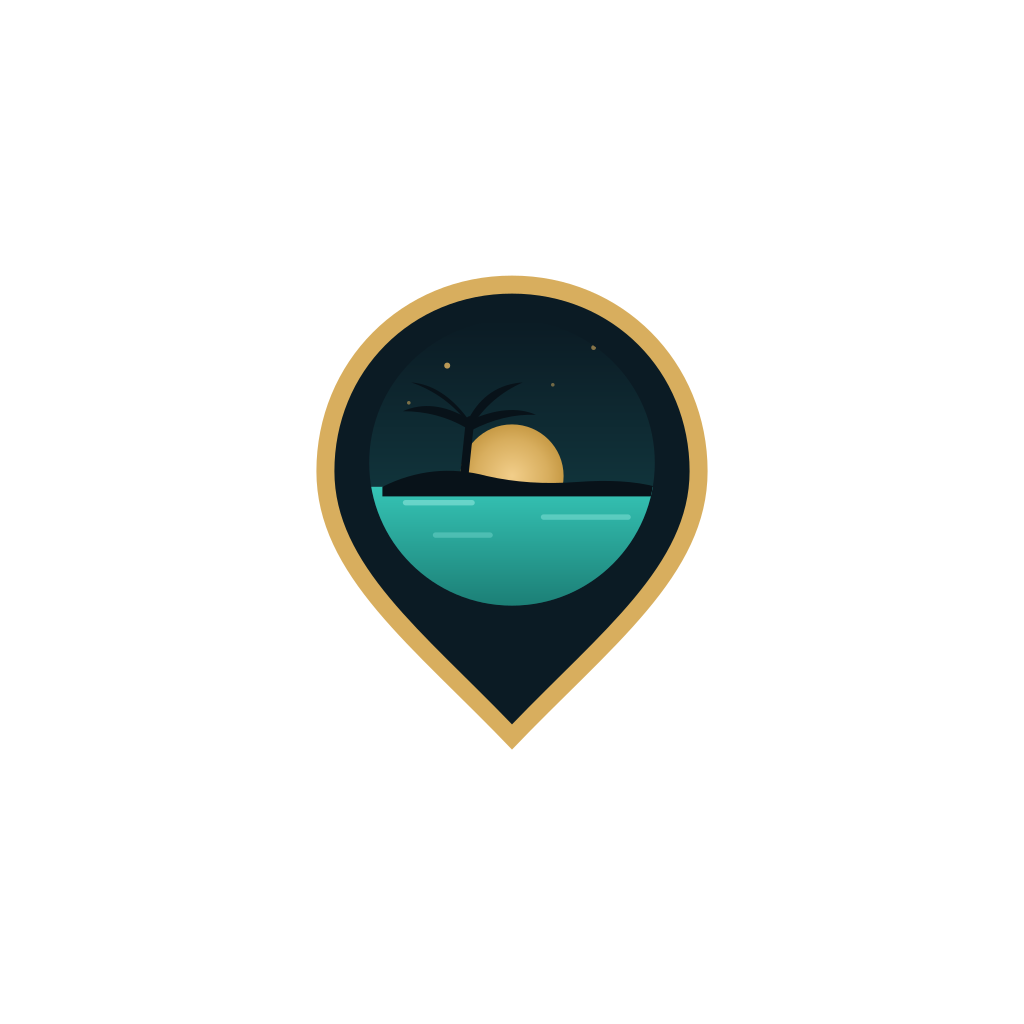
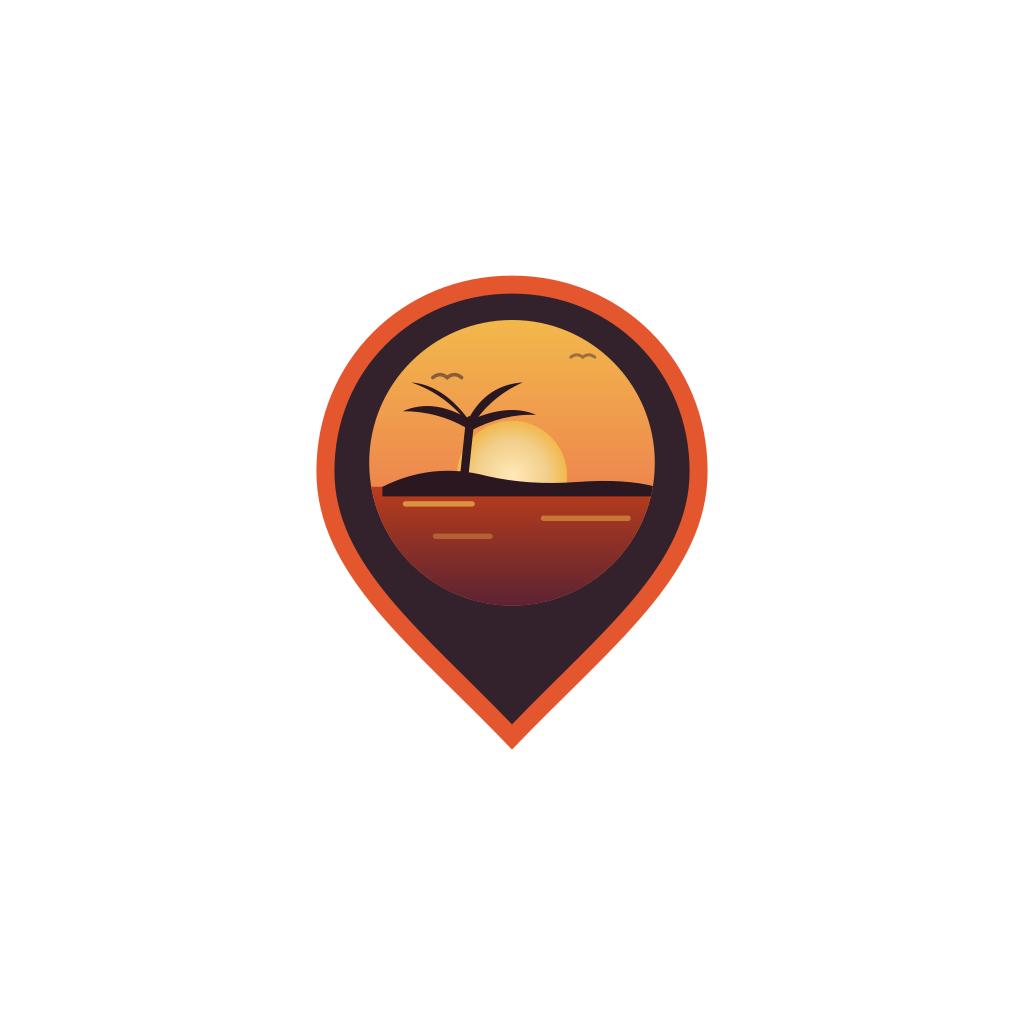
zanziGo : design « Coucher de soleil » (option B) — choix final
- Palette corail couchant / crème dorée / prune / doré appliquée au système
  de design central, aux composants UI, aux barres et aux pages web du
  serveur (/, /app, PayPal).
- Logo « pin de l'île » version coucher de soleil : pin corail, ciel du soir
  doré, soleil d'or, mer prune — icône iOS/Android, splash, favicon, accueil.
- Barre d'état repassée en icônes sombres (fond clair).

Claude-Session: https://claude.ai/code/session_01Dbj7RjdMvYdZ7ALANEqkT4

Changed region(s): [[0.2812, 0.25, 0.7188, 0.7188]]

diff --git a/mobile/src/lib/theme.ts b/mobile/src/lib/theme.ts
@@ -1,39 +1,39 @@
-// Palette « Nuit d'océan » de zanziGo : marine profonde, turquoise néon, or.
-// (Direction D choisie par l'équipe — l'océan de nuit, esprit beach club.)
+// Palette « Coucher de soleil » de zanziGo : corail chaud, crème dorée, prune.
+// (Direction B choisie par l'équipe — le ciel de Zanzibar à 18 h 30.)
 import type { StatutColis, StatutTrajet } from './types';
 
 export const couleurs = {
-  primaire: '#35C4B5', // turquoise néon
-  primaireFonce: '#7FE0D5', // texte turquoise clair posé sur les fonds teal sombres
-  primaireClair: '#123A41', // fond teal profond (pastilles, encarts info)
-  sable: '#10222E', // fond principal — marine profonde (nom historique conservé)
+  primaire: '#E4572E', // corail couchant
+  primaireFonce: '#B93C1B', // corail profond (textes sur fonds rosés)
+  primaireClair: '#FFE0D2', // rosé (pastilles, encarts info)
+  sable: '#FBF0E4', // fond principal — crème dorée (nom historique conservé)
   blanc: '#FFFFFF',
-  encre: '#EAF2F4', // texte principal — écume
-  texteSecondaire: '#8FA6B0',
-  bordure: '#29455A',
-  danger: '#E5484D',
-  dangerFonce: '#FCA5A5', // texte des encarts d'erreur
-  dangerFond: '#3B1A1E', // fond rouge sombre (bandeaux d'erreur)
-  dangerBordure: '#7F2E35',
-  succes: '#58D6A8',
-  succesFond: '#14383B',
-  attente: '#E4B95B',
-  attenteFond: '#3E3320',
-  orange: '#F0A24A', // orange doux (statut « Chauffeur confirmé »)
-  orangeFond: '#3D2C18',
-  etoile: '#E4B95B', // étoiles de notation — or
-  voile: 'rgba(4, 10, 15, 0.7)', // voile sombre du scanner
+  encre: '#33222B', // texte principal — prune
+  texteSecondaire: '#8A7168',
+  bordure: '#F0DFD2',
+  danger: '#DC2626',
+  dangerFonce: '#B91C1C', // texte des encarts d'erreur
+  dangerFond: '#FEF2F2', // fond rouge très clair (bandeaux d'erreur)
+  dangerBordure: '#FECACA',
+  succes: '#5A7D2A',
+  succesFond: '#E5EFD8',
+  attente: '#B77A12',
+  attenteFond: '#FCE9C4',
+  orange: '#EA580C', // orange franc (statut « Chauffeur confirmé »)
+  orangeFond: '#FFEDD5',
+  etoile: '#F2B84B', // étoiles de notation — doré
+  voile: 'rgba(30, 15, 22, 0.68)', // voile sombre du scanner (prune translucide)
   succesClair: '#6EE7B7', // texte succès sur fond sombre (scanner)
   dangerClair: '#FCA5A5', // texte erreur sur fond sombre (scanner)
-  // Photos de plage en fond, voilées de marine pour la lisibilité nocturne.
-  voilePhotoClair: 'rgba(16, 34, 46, 0.88)', // voile marine sur les écrans formulaires/listes
-  voilePhotoSombre: 'rgba(4, 10, 15, 0.55)', // assombrissement bas des écrans d'accueil
-  carteTranslucide: 'rgba(26, 50, 66, 0.95)', // cartes marine claire semi-opaques
-  // Rôles propres à « Nuit d'océan »
-  surface: '#1A3242', // surfaces pleines : champs de saisie, menus, barre d'onglets
-  surPrimaire: '#0B1B24', // texte/icônes posés SUR le turquoise (boutons)
-  or: '#D8AE5E', // accent or : logo, touches premium
-  nuit: '#0B1B24', // fonds les plus profonds (carte Chauffeur de l'accueil)
+  // Photos de plage en fond, voilées de crème chaude pour la lisibilité.
+  voilePhotoClair: 'rgba(255, 247, 238, 0.86)', // voile crème sur les écrans formulaires/listes
+  voilePhotoSombre: 'rgba(30, 15, 22, 0.55)', // assombrissement bas des écrans d'accueil
+  carteTranslucide: 'rgba(255, 253, 250, 0.94)', // cartes blanc chaud semi-opaques
+  // Rôles introduits avec les directions B/D
+  surface: '#FFFDFA', // surfaces pleines : champs de saisie, menus, barre d'onglets
+  surPrimaire: '#FFF8F2', // texte/icônes posés SUR le corail (boutons)
+  or: '#F2B84B', // accent doré : étoiles, touches premium
+  nuit: '#33222B', // fonds les plus profonds (carte Chauffeur de l'accueil)
 };
 
 export const rayons = {
@@ -61,15 +61,15 @@ export const tailles = {
 /** Ombres douces réutilisables (iOS + elevation Android). */
 export const ombres = {
   carte: {
-    shadowColor: '#000',
-    shadowOpacity: 0.3,
-    shadowRadius: 8,
-    shadowOffset: { width: 0, height: 3 },
-    elevation: 3,
+    shadowColor: '#5C3A2E',
+    shadowOpacity: 0.08,
+    shadowRadius: 6,
+    shadowOffset: { width: 0, height: 2 },
+    elevation: 2,
   },
   douce: {
-    shadowColor: '#35C4B5',
-    shadowOpacity: 0.18,
+    shadowColor: '#E4572E',
+    shadowOpacity: 0.14,
     shadowRadius: 14,
     shadowOffset: { width: 0, height: 6 },
     elevation: 4,

diff --git a/backend/src/app.js b/backend/src/app.js
@@ -62,9 +62,9 @@ export function createApp() {
         `<!doctype html><html lang="fr"><head><meta charset="utf-8">
 <meta name="viewport" content="width=device-width, initial-scale=1">
 <title>zanziGo — API</title>
-<style>body{font-family:system-ui,sans-serif;background:#10222E;color:#EAF2F4;display:flex;min-height:100vh;align-items:center;justify-content:center;margin:0}
-main{text-align:center;padding:32px}h1{color:#D8AE5E;font-size:44px;margin:0}
-p{color:#8FA6B0;max-width:42ch}code{background:#123A41;color:#7FE0D5;padding:2px 8px;border-radius:8px}</style>
+<style>body{font-family:system-ui,sans-serif;background:#FBF0E4;color:#33222B;display:flex;min-height:100vh;align-items:center;justify-content:center;margin:0}
+main{text-align:center;padding:32px}h1{color:#E4572E;font-size:44px;margin:0}
+p{color:#8A7168;max-width:42ch}code{background:#FFE0D2;color:#B93C1B;padding:2px 8px;border-radius:8px}</style>
 </head><body><main><h1>zanziGo</h1>
 <p><strong>Le serveur est en ligne ✓</strong></p>
 <p>Cette adresse est le moteur de l'application mobile zanziGo (courses taxi et colis à Zanzibar). Il n'y a rien à voir ici : tout se passe dans l'app.</p>
@@ -85,12 +85,12 @@ p{color:#8FA6B0;max-width:42ch}code{background:#123A41;color:#7FE0D5;padding:2px
         `<!doctype html><html lang="fr"><head><meta charset="utf-8">
 <meta name="viewport" content="width=device-width, initial-scale=1">
 <title>zanziGo — Ouvrir l'app</title>
-<style>body{font-family:system-ui,sans-serif;background:#10222E;color:#EAF2F4;display:flex;min-height:100vh;align-items:center;justify-content:center;margin:0}
-main{text-align:center;padding:28px;max-width:480px}h1{color:#D8AE5E;font-size:40px;margin:0 0 4px}
-p{color:#8FA6B0;margin:10px auto;line-height:1.5}
-.bouton{display:block;background:#35C4B5;color:#0B1B24;text-decoration:none;font-weight:700;font-size:18px;padding:16px 22px;border-radius:14px;margin:18px auto}
-.secondaire{background:#1A3242;color:#7FE0D5;border:2px solid #35C4B5}
-small{color:#8FA6B0;display:block;margin-top:14px;line-height:1.5}small a{color:#7FE0D5}</style>
+<style>body{font-family:system-ui,sans-serif;background:#FBF0E4;color:#33222B;display:flex;min-height:100vh;align-items:center;justify-content:center;margin:0}
+main{text-align:center;padding:28px;max-width:480px}h1{color:#E4572E;font-size:40px;margin:0 0 4px}
+p{color:#8A7168;margin:10px auto;line-height:1.5}
+.bouton{display:block;background:#E4572E;color:#FFF8F2;text-decoration:none;font-weight:700;font-size:18px;padding:16px 22px;border-radius:14px;margin:18px auto}
+.secondaire{background:#FFFDFA;color:#B93C1B;border:2px solid #E4572E}
+small{color:#8A7168;display:block;margin-top:14px;line-height:1.5}small a{color:#B93C1B}</style>
 </head><body><main>
 <h1>zanziGo</h1>
 <p><strong>Taxi &amp; colis à Zanzibar</strong> — dernière version, toujours à jour.</p>
@@ -111,9 +111,9 @@ Astuce : si l'app semble en retard, fermez-la complètement et rouvrez-la deux f
     `<!doctype html><html lang="fr"><head><meta charset="utf-8">
 <meta name="viewport" content="width=device-width, initial-scale=1">
 <title>zanziGo — ${titre}</title>
-<style>body{font-family:system-ui,sans-serif;background:#10222E;color:#EAF2F4;display:flex;min-height:100vh;align-items:center;justify-content:center;margin:0}
-main{text-align:center;padding:32px}h1{color:#D8AE5E;font-size:40px;margin:0 0 8px}
-p{color:#8FA6B0;max-width:44ch;margin:8px auto}</style>
+<style>body{font-family:system-ui,sans-serif;background:#FBF0E4;color:#33222B;display:flex;min-height:100vh;align-items:center;justify-content:center;margin:0}
+main{text-align:center;padding:32px}h1{color:#E4572E;font-size:40px;margin:0 0 8px}
+p{color:#8A7168;max-width:44ch;margin:8px auto}</style>
 </head><body><main><h1>${emoji} ${titre}</h1><p>${message}</p></main></body></html>`;
   app.get('/api/paypal/retour', (_req, res) => {
     res

diff --git a/mobile/src/components/ui.tsx b/mobile/src/components/ui.tsx
@@ -121,7 +121,7 @@ export function SelecteurLangue({ compact = false }: { compact?: boolean }) {
   );
 }
 
-/** Logotype texte « zanziGo » : zanzi en écume, Go en or (Nuit d'océan). */
+/** Logotype texte « zanziGo » : zanzi en prune, Go en corail (Coucher de soleil). */
 export function LogoZanziGo({
   taille = 40,
   surFonce = false,
@@ -132,7 +132,7 @@ export function LogoZanziGo({
   return (
     <Text style={[styles.logo, { fontSize: taille }]} accessibilityRole="header">
       <Text style={{ color: surFonce ? couleurs.blanc : couleurs.encre }}>zanzi</Text>
-      <Text style={{ color: couleurs.or }}>Go</Text>
+      <Text style={{ color: couleurs.primaire }}>Go</Text>
     </Text>
   );
 }

diff --git a/mobile/src/app/_layout.tsx b/mobile/src/app/_layout.tsx
@@ -38,7 +38,7 @@ export default function LayoutRacine() {
   return (
     <LangueProvider>
       <AuthProvider>
-        <StatusBar style="light" />
+        <StatusBar style="dark" />
         <PilesNavigation />
       </AuthProvider>
     </LangueProvider>
